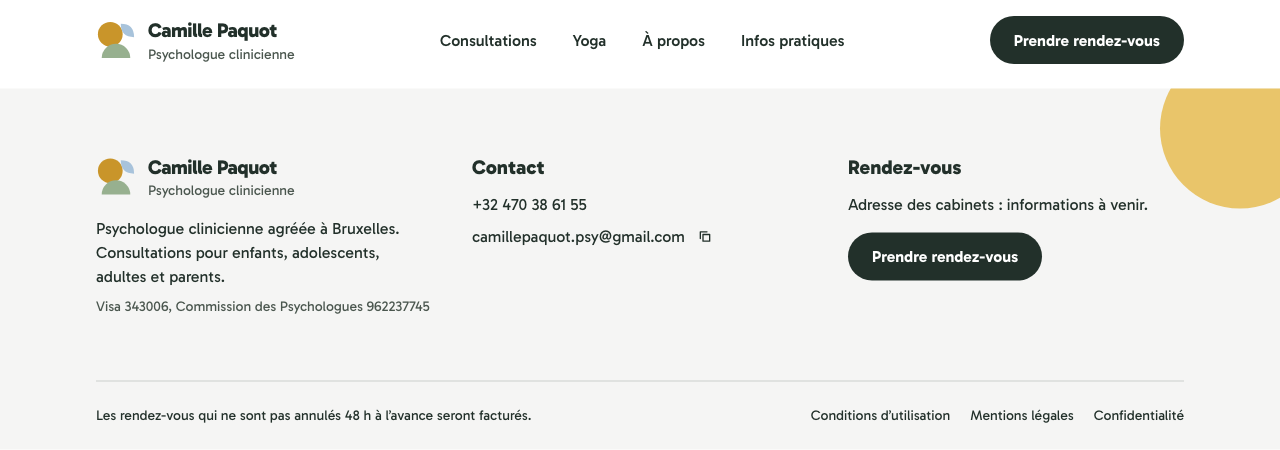
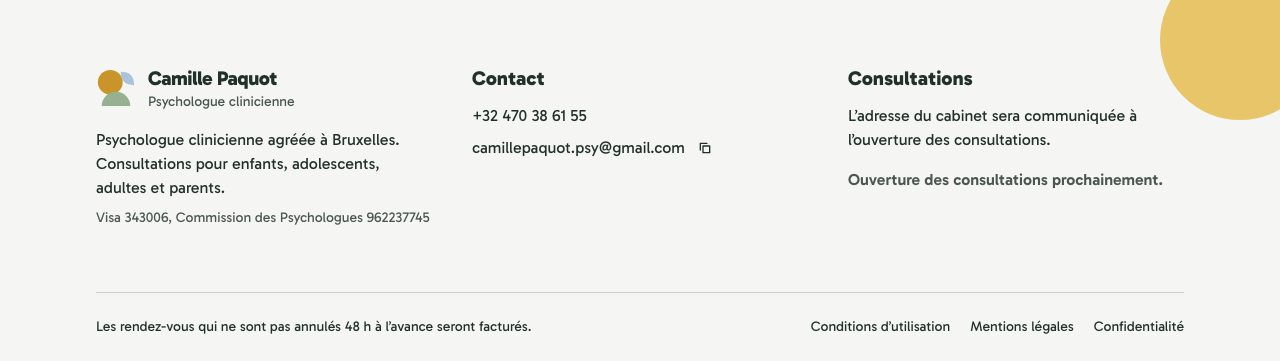
Clarify consultation preopening and remove booking links

diff --git a/src/routes/infos-pratiques.tsx b/src/routes/infos-pratiques.tsx
@@ -1,5 +1,5 @@
 import { createFileRoute, Link } from "@tanstack/react-router";
-import { BookingLink } from "@/components/BookingLink";
+import { ConsultationOpening } from "@/components/ConsultationOpening";
 import { Container } from "@/components/Container";
 import { EmailLink } from "@/components/EmailLink";
 import { Heading } from "@/components/Heading";
@@ -89,13 +89,14 @@ function PracticalInfoPage() {
         </div>
         <div className={`${panel} bg-sage`}>
           <Heading level={3} as="h2" className="mb-4">
-            Prendre rendez-vous
+            Consultations et contact
           </Heading>
           <p className="text-lg">
-            Les consultations se réservent en ligne, ou par téléphone au{" "}
+            La prise de rendez-vous ouvrira lorsque l’adresse du cabinet sera confirmée. Pour toute
+            question, vous pouvez appeler le{" "}
             <TextAnchor href={phone.href}>{phone.display}</TextAnchor>.
           </p>
-          <BookingLink className="mt-5" />
+          <ConsultationOpening className="mt-5" />
           <p className="mt-6 text-lg">
             Pour les cours de yoga, la prise de rendez-vous se fait directement par mail ou par
             téléphone.
@@ -124,7 +125,9 @@ function PracticalInfoPage() {
           <Heading level={3} as="h2" className="mb-4">
             Cabinets
           </Heading>
-          <p className="text-lg">Informations à venir.</p>
+          <p className="text-lg">
+            L’adresse du cabinet sera communiquée à l’ouverture des consultations.
+          </p>
         </div>
         <div className={`${panel} ring-2 ring-ink`}>
           <Heading level={3} as="h2" className="mb-4">

diff --git a/src/components/BookingBand.tsx b/src/components/BookingBand.tsx
@@ -1,5 +1,4 @@
 import { phone } from "@/constants";
-import { BookingLink } from "@/components/BookingLink";
 import { Container } from "@/components/Container";
 import { Heading } from "@/components/Heading";
 import { Shape } from "@/components/Shape";
@@ -10,16 +9,15 @@ export function BookingBand() {
       <div className="relative flex flex-col items-start gap-6 overflow-hidden rounded-[2rem] bg-mustard-light p-8 md:flex-row md:items-center md:justify-between md:p-12">
         <Shape shape="halfMoon" className="absolute -bottom-6 left-1/2 w-40 bg-sky max-md:hidden" />
         <div className="relative">
-          <Heading level={2}>Un premier rendez-vous ?</Heading>
+          <Heading level={2}>Les consultations ouvrent prochainement</Heading>
           <p className="mt-2 max-w-xl text-lg">
-            Réservez en ligne, ou appelez le{" "}
+            Pour toute question, vous pouvez appeler le{" "}
             <a className="font-bold underline underline-offset-4" href={phone.href}>
               {phone.display}
-            </a>{" "}
-            si vous avez une question avant de commencer.
+            </a>
+            .
           </p>
         </div>
-        <BookingLink className="relative" />
       </div>
     </Container>
   );

diff --git a/src/components/Footer.tsx b/src/components/Footer.tsx
@@ -1,6 +1,6 @@
 import { Link } from "@tanstack/react-router";
 import { cancellationPolicy, commission, phone, visa } from "@/constants";
-import { BookingLink } from "@/components/BookingLink";
+import { ConsultationOpening } from "@/components/ConsultationOpening";
 import { Container } from "@/components/Container";
 import { EmailLink } from "@/components/EmailLink";
 import { Logo } from "@/components/Logo";
@@ -35,9 +35,9 @@ export function Footer() {
           </ul>
         </div>
         <div>
-          <h2 className="mb-3 text-xl font-extrabold">Rendez-vous</h2>
-          <p>Adresse des cabinets : informations à venir.</p>
-          <BookingLink className="mt-4" />
+          <h2 className="mb-3 text-xl font-extrabold">Consultations</h2>
+          <p>L’adresse du cabinet sera communiquée à l’ouverture des consultations.</p>
+          <ConsultationOpening className="mt-4" />
         </div>
       </Container>
       <Container className="relative">

diff --git a/src/components/PracticalInfo.tsx b/src/components/PracticalInfo.tsx
@@ -1,5 +1,5 @@
 import { email, payment, phone } from "@/constants";
-import { BookingLink } from "@/components/BookingLink";
+import { ConsultationOpening } from "@/components/ConsultationOpening";
 import { Button } from "@/components/Button";
 import { Heading } from "@/components/Heading";
 
@@ -35,13 +35,13 @@ export function PracticalInfo({ service }: { service: PracticalDetails }) {
       <p className="mt-4 text-sm text-ink-soft">{payment}</p>
       {service.bookOnline ? (
         <>
-          <BookingLink className="mt-6 w-full" />
+          <ConsultationOpening className="mt-6 w-full" />
           <p className="mt-3 text-sm text-ink-soft">
-            Par téléphone au{" "}
+            Pour toute question :{" "}
             <a className="underline" href={phone.href}>
               {phone.display}
             </a>
-            , ou en ligne.
+            .
           </p>
         </>
       ) : (

diff --git a/src/components/Header.tsx b/src/components/Header.tsx
@@ -1,7 +1,6 @@
 import { Link, linkOptions, useLocation } from "@tanstack/react-router";
 import { useEffect, useState } from "react";
 import { phone } from "@/constants";
-import { BookingLink } from "@/components/BookingLink";
 import { Container } from "@/components/Container";
 import { EmailLink } from "@/components/EmailLink";
 import { Logo } from "@/components/Logo";
@@ -63,10 +62,6 @@ export function Header() {
           {links}
         </nav>
         <div className="flex items-center gap-3">
-          <BookingLink className="max-sm:px-4 max-sm:py-2 max-sm:text-sm">
-            <span className="sm:hidden">Rendez-vous</span>
-            <span className="max-sm:hidden">Prendre rendez-vous</span>
-          </BookingLink>
           <button
             className="flex size-10 cursor-pointer items-center justify-center rounded-full lg:hidden"
             type="button"

diff --git a/src/routes/conditions-utilisation.tsx b/src/routes/conditions-utilisation.tsx
@@ -46,11 +46,10 @@ function TermsPage() {
           site et ne remplacent pas les accords relatifs à votre accompagnement.
         </p>
       </LegalSection>
-      <LegalSection title="Liens vers d’autres sites">
+      <LegalSection title="Ouverture des consultations">
         <p>
-          La réservation en ligne mène vers Rosa, un service externe. Son utilisation relève de ses
-          propres conditions et de sa politique de confidentialité. Les contenus et le
-          fonctionnement de ces services restent sous la responsabilité de leurs éditeurs.
+          Les consultations ne sont pas encore ouvertes à la réservation. La prise de rendez-vous
+          sera proposée lorsque l’adresse du cabinet sera confirmée.
         </p>
       </LegalSection>
       <LegalSection title="Utilisation des contenus">

diff --git a/src/routes/a-propos.tsx b/src/routes/a-propos.tsx
@@ -1,6 +1,6 @@
 import { createFileRoute } from "@tanstack/react-router";
 import { BookingBand } from "@/components/BookingBand";
-import { BookingLink } from "@/components/BookingLink";
+import { ConsultationOpening } from "@/components/ConsultationOpening";
 import { Button } from "@/components/Button";
 import { Container } from "@/components/Container";
 import { EmailLink } from "@/components/EmailLink";
@@ -86,7 +86,7 @@ function AboutPage() {
             entreprendre un travail sur soi dans un cadre bienveillant, respectueux et non-jugeant.
           </p>
           <div className="mt-8 flex flex-wrap gap-3">
-            <BookingLink />
+            <ConsultationOpening />
             <Button variant="outline" href="#formations">
               Mes formations
             </Button>

diff --git a/src/routes/index.tsx b/src/routes/index.tsx
@@ -1,6 +1,6 @@
 import { createFileRoute } from "@tanstack/react-router";
 import { BookingBand } from "@/components/BookingBand";
-import { BookingLink } from "@/components/BookingLink";
+import { ConsultationOpening } from "@/components/ConsultationOpening";
 import { ButtonLink } from "@/components/Button";
 import { Container } from "@/components/Container";
 import { Heading } from "@/components/Heading";
@@ -39,7 +39,7 @@ function HomePage() {
             quotidien.
           </p>
           <div className="mt-8 flex flex-wrap gap-3">
-            <BookingLink />
+            <ConsultationOpening />
             <ButtonLink variant="outline" to="/consultations">
               Les consultations
             </ButtonLink>

diff --git a/src/routes/confidentialite.tsx b/src/routes/confidentialite.tsx
@@ -52,14 +52,10 @@ function PrivacyPage() {
           répondre. Évitez de détailler votre santé ou votre situation personnelle par e-mail.
         </p>
       </LegalSection>
-      <LegalSection title="Prestataires et réservation">
+      <LegalSection title="Prestataires">
         <p>
           Les données techniques sont traitées par l’hébergeur Cloudflare et les messages par le
           prestataire de messagerie utilisé pour les échanges.
-        </p>
-        <p>
-          Le bouton de réservation vous mène vers Rosa, un service externe soumis à ses propres
-          informations de confidentialité.
         </p>
       </LegalSection>
       <LegalSection title="Statistiques de fréquentation">

diff --git a/src/constants.ts b/src/constants.ts
@@ -2,7 +2,6 @@
 export const siteUrl = "https://camille-paquot.be";
 export const phone = { display: "+32 470 38 61 55", href: "tel:+32470386155" };
 export const email = "camillepaquot.psy@gmail.com";
-export const booking = "https://rosa.be/fr/hp/camille-paquot-1/";
 export const visa = "343006";
 export const commission = "962237745";
 export const payment = "Paiement en espèces ou par QR code (paiement mobile).";

diff --git a/src/components/ConsultationOpening.tsx b/src/components/ConsultationOpening.tsx
@@ -1,0 +1,7 @@
+export function ConsultationOpening({ className = "" }: { className?: string }) {
+  return (
+    <p className={`text-base font-semibold text-ink-soft ${className}`}>
+      Ouverture des consultations prochainement.
+    </p>
+  );
+}

diff --git a/docs/legal-publication-checklist.md b/docs/legal-publication-checklist.md
@@ -2,6 +2,8 @@
 
 The three French legal pages remain incomplete and use `noindex`. Generic draft banners and the visitor-facing preparation checklist have been removed; keep `noindex` until the missing identity and processing details are confirmed. These pages do not replace a patient privacy notice.
 
+The site opens before consultations. Online consultation booking is unavailable; the Rosa link has been removed. The practitioner will confirm the practice address before opening appointment booking. Yoga contact/booking remains unchanged. Review the legal and privacy information when booking becomes available.
+
 Before publication:
 
 - Confirm the legal professional address, VAT treatment, exact qualification and country that granted the professional title. BCE 1006.262.558 is verified in Public Search and its identity was confirmed by the owner on 16 October 2026. The register identifies an active natural person, Paquot, Camille, with psychology activity (NACE 86.931). Its TVA registration does not establish the VAT treatment of each service. No register address has been published.
@@ -12,7 +14,7 @@ Before publication:
 
 Static hosting still processes technical request data, separately from aggregate audience statistics. Do not infer zero logging, zero personal data, anonymity or a consent exemption from the site's static nature or the intended simplicity of the analytics.
 
-Repository evidence: `src/constants.ts` holds known contact and registration numbers; `src/components/BookingLink.tsx` uses an external Rosa link; `src/routes/__root.tsx` and `src/styles.css` load local assets; `wrangler.jsonc` enables Workers observability with `head_sampling_rate: 1`. This setting does not identify the audience analytics service; active Cloudflare Web Analytics is recorded on the owner's confirmation. No Web Analytics beacon or deployment injection configuration was found in the repository. Professional addresses are still missing from the existing practical information page.
+Repository evidence: `src/constants.ts` holds known contact and registration numbers; `src/components/ConsultationOpening.tsx` presents a noninteractive preopening notice; `src/routes/__root.tsx` and `src/styles.css` load local assets; `wrangler.jsonc` enables Workers observability with `head_sampling_rate: 1`. This setting does not identify the audience analytics service; active Cloudflare Web Analytics is recorded on the owner's confirmation. No Web Analytics beacon or deployment injection configuration was found in the repository. Professional addresses are still missing from the existing practical information page.
 
 Primary references for review:
 
